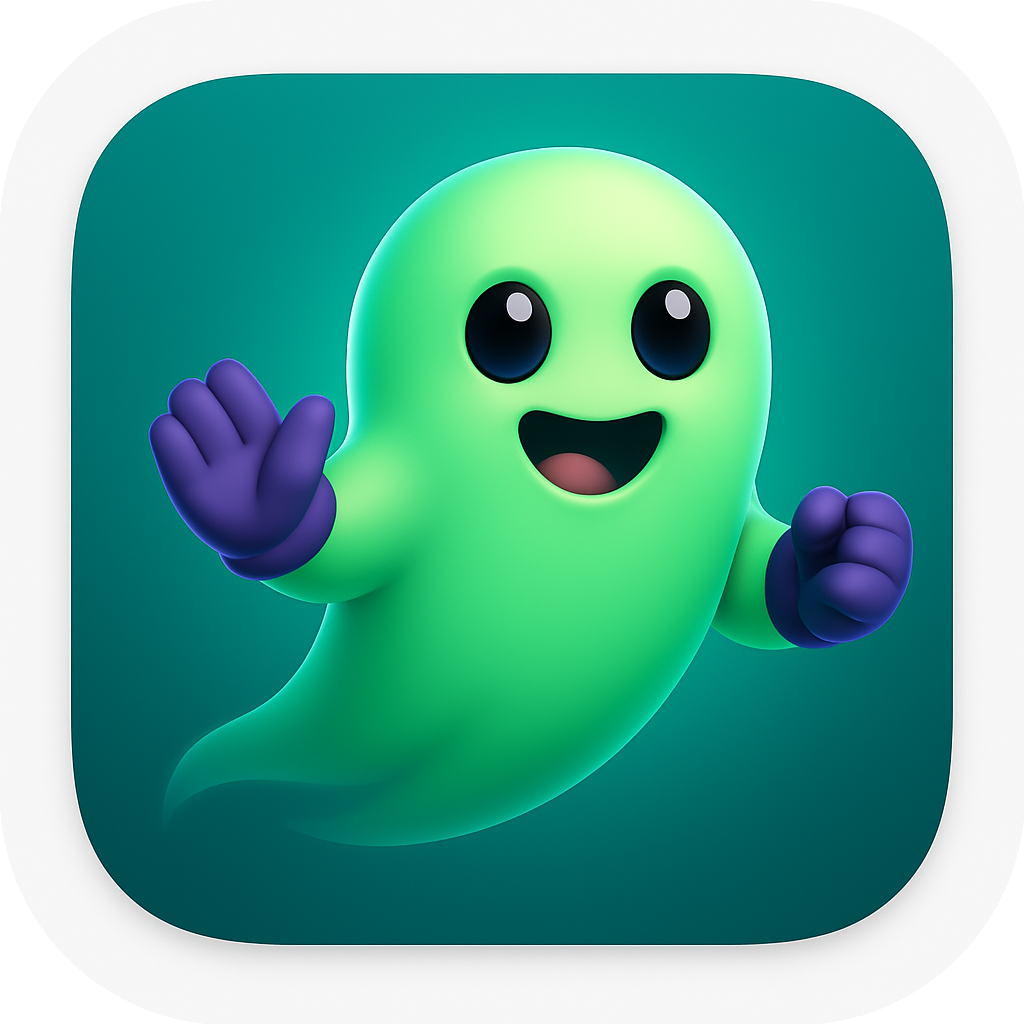
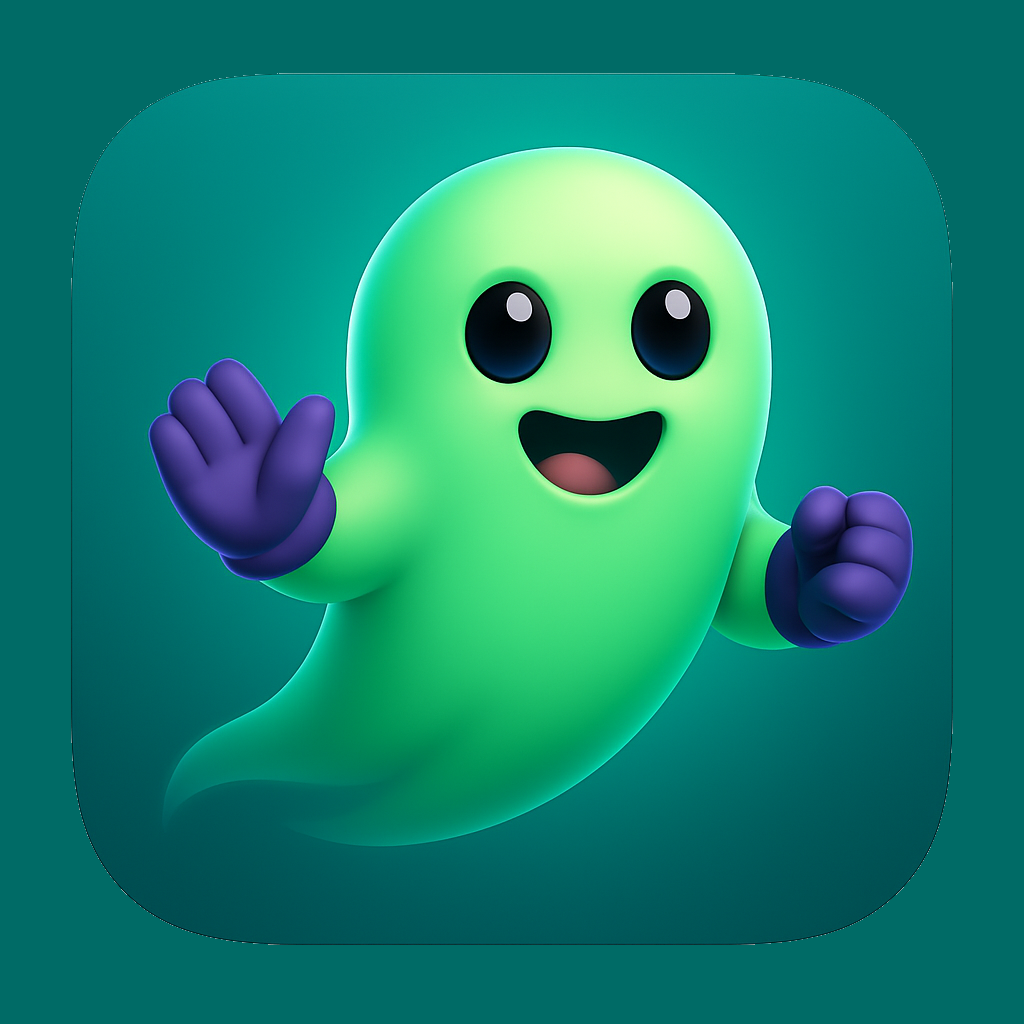
fix(app): polish mac app launch chrome

Changed region(s): [[0.0, 0.0, 1.0, 1.0]]

diff --git a/Apps/Mac/Peekaboo/Utilities/SettingsOpener.swift b/Apps/Mac/Peekaboo/Utilities/SettingsOpener.swift
@@ -112,22 +112,41 @@ struct HiddenWindowView: View {
 
     var body: some View {
         Color.clear
-            .frame(width: 64, height: 64)
+            .frame(width: 1, height: 1)
+            .background(HiddenWindowConfigurator())
             .onReceive(NotificationCenter.default.publisher(for: .openSettingsRequest)) { _ in
                 Task { @MainActor in
                     self.openSettings()
                 }
             }
-            .onAppear {
-                // Hide this window from the dock menu and window lists
-                if let window = NSApp.windows
-                    .first(where: { $0.identifier?.rawValue.contains("HiddenWindow") ?? false })
-                {
-                    window.isExcludedFromWindowsMenu = true
-                    window.title = "" // Remove title to ensure it doesn't show anywhere
-                    window.orderOut(nil)
-                }
-            }
+    }
+}
+
+private struct HiddenWindowConfigurator: NSViewRepresentable {
+    func makeNSView(context _: Context) -> NSView {
+        let view = NSView(frame: .zero)
+        DispatchQueue.main.async {
+            self.configureWindow(for: view)
+        }
+        return view
+    }
+
+    func updateNSView(_ nsView: NSView, context _: Context) {
+        DispatchQueue.main.async {
+            self.configureWindow(for: nsView)
+        }
+    }
+
+    private func configureWindow(for view: NSView) {
+        guard let window = view.window else { return }
+
+        window.identifier = NSUserInterfaceItemIdentifier("hidden-settings-helper")
+        window.title = ""
+        window.isExcludedFromWindowsMenu = true
+        window.alphaValue = 0
+        window.ignoresMouseEvents = true
+        window.collectionBehavior.insert(.transient)
+        window.orderOut(nil)
     }
 }
 

diff --git a/CHANGELOG.md b/CHANGELOG.md
@@ -7,6 +7,7 @@
 - Added docs-site agent metadata, social preview assets, and security discovery files, with GitHub links moved to the OpenClaw-owned repository. Thanks @williamclay8 for #115.
 - Release automation now builds and uploads the signed, notarized Peekaboo.app zip by default, updates Sparkle appcast metadata, and accepts one-line App Store Connect API keys for notarization.
 - Refined the macOS Settings window, menu bar popover header, and Playground chrome with denser native layout, clearer controls, and less debug noise.
+- Fixed the macOS app's invisible settings helper window and refreshed the app icon artwork so Dock no longer shows a stray blank window or white icon backing.
 
 ## [3.0.0] - 2026-05-09
 
